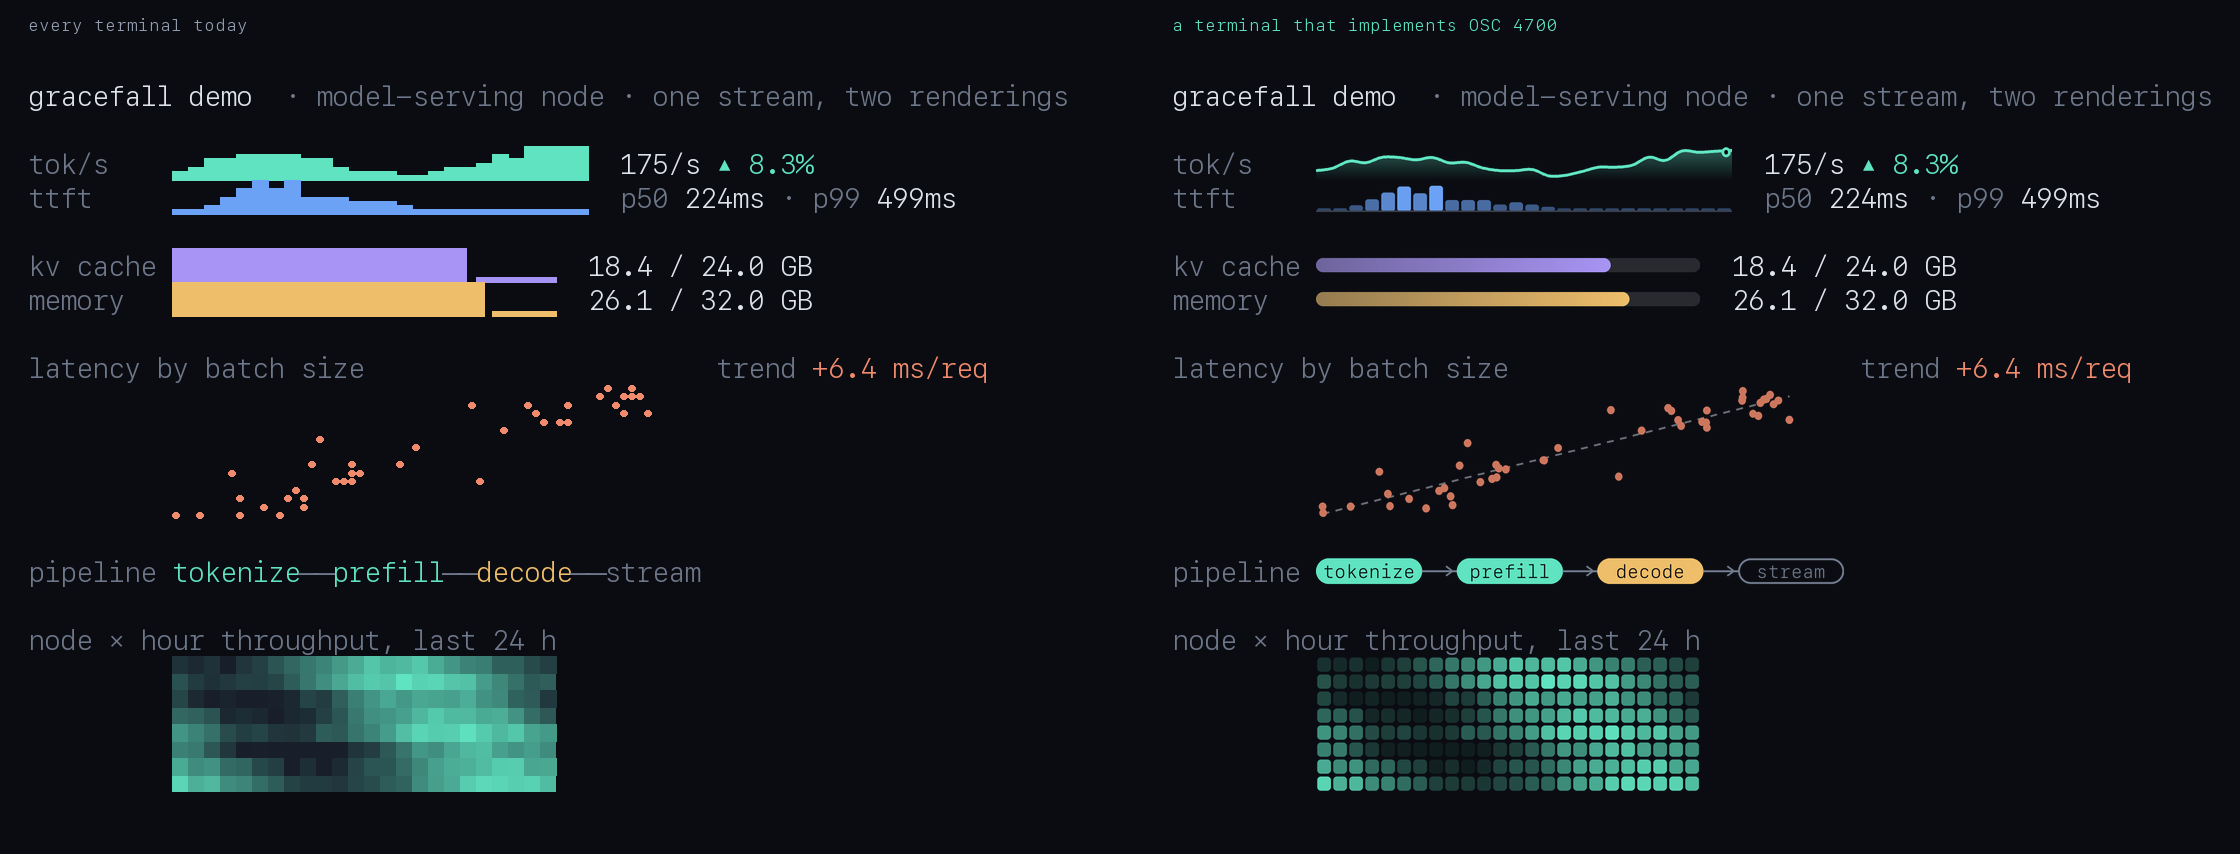
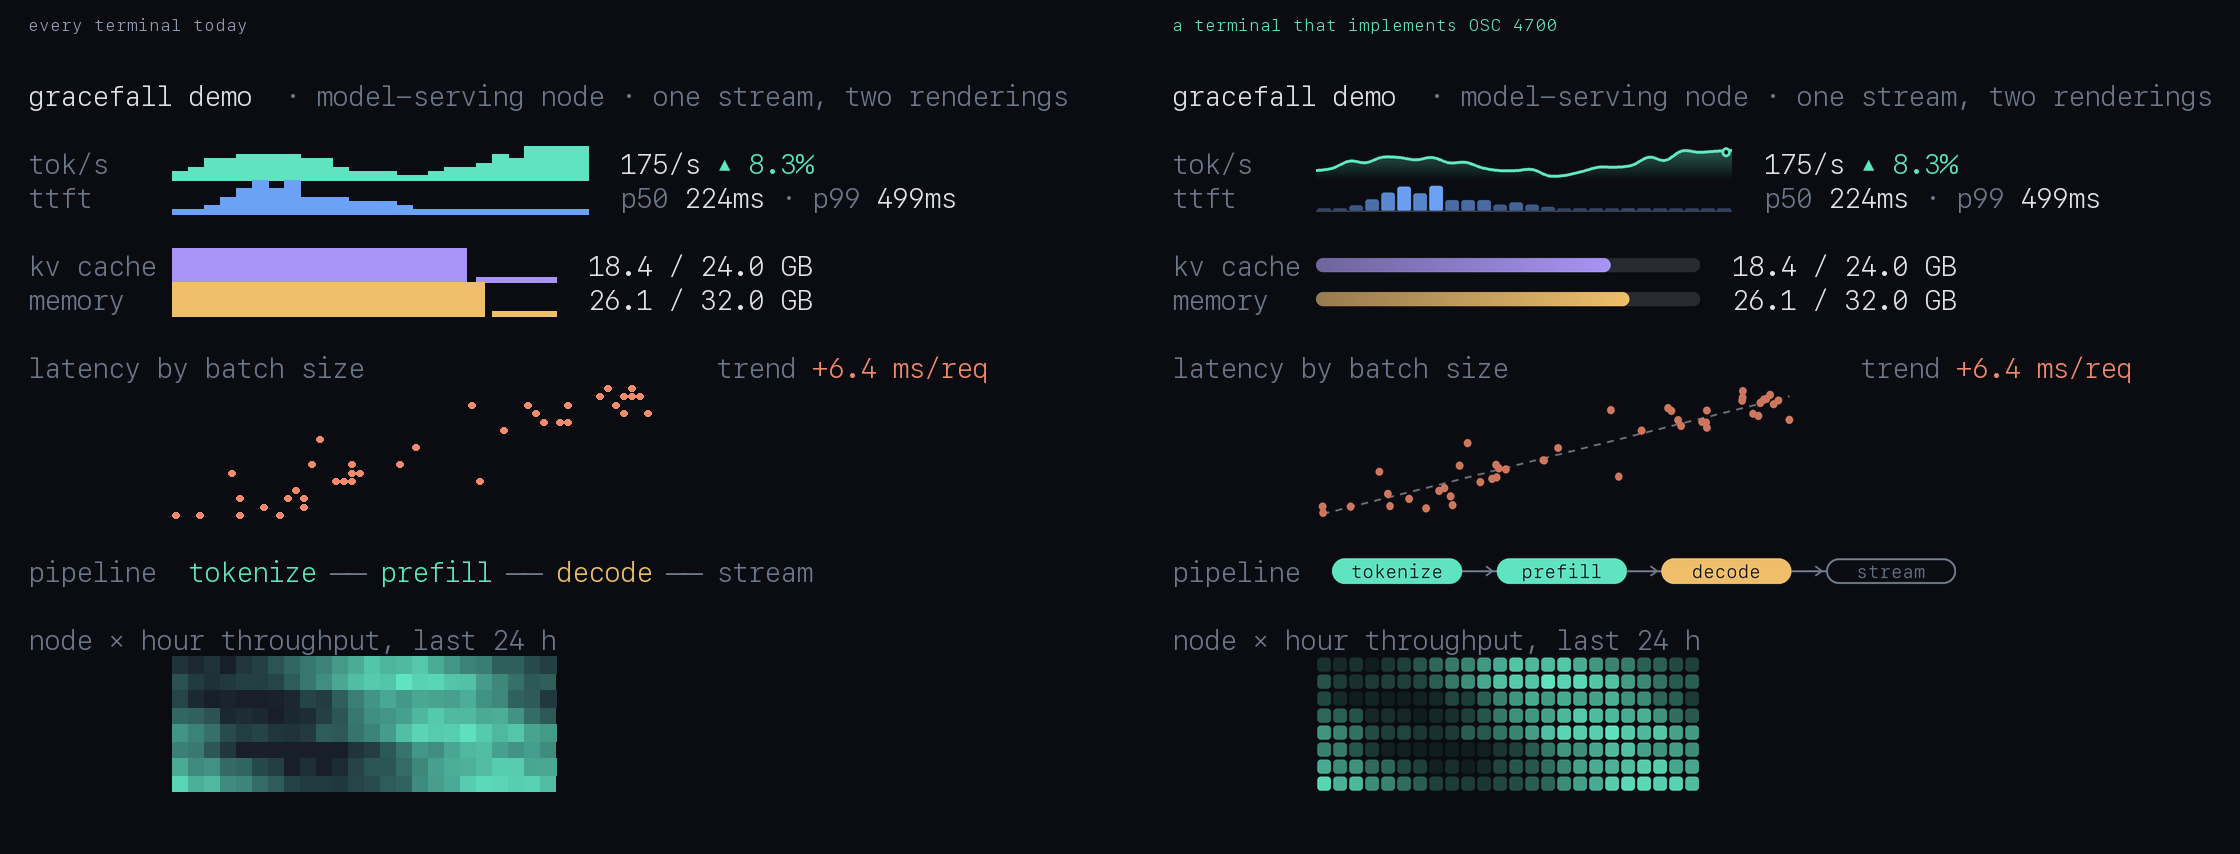
0.4.0: pad flow stage names, and make the layout normative
The flow fallback now puts one space on each side of every stage name,
and SPEC.md documents the layout (padded names, two-cell joins) as
normative rather than styling.

The padding exists for receivers. A terminal that draws stage markers
composites them behind the fallback text, so it cannot resize the names
and it cannot widen a marker past its stage's cells without eating the
join characters drawn on top of it. The only way a marker gets room
around its name is for the name's cells to include that room, which
makes the layout part of the wire format: a receiver derives each name's
cells from it, and an emitter that changed it would move the markers off
the words.

The golden moved only in the flow span, and the visual diff against the
previous renderer is zero pixels, which is expected: this changes what
the emitter writes, not how the renderer draws it.

Changed region(s): [[0.5938, 0.6393, 0.875, 0.7002], [0.0938, 0.6393, 0.3125, 0.7002]]

diff --git a/src/gracefall/__init__.py b/src/gracefall/__init__.py
@@ -22,7 +22,7 @@ Library API:
 
 import re
 
-__version__ = "0.3.5"
+__version__ = "0.4.0"
 __all__ = ["OSC_NUM", "span", "spark", "meter", "flow", "dist", "scatter",
            "heat", "strip_spans", "ROLE_RGB", "SGR"]
 
@@ -99,8 +99,12 @@ def flow(stages, statuses):
         if s not in scol:
             raise ValueError(f"unknown status {s!r}, use one of {list(scol)}")
     parts = [f"{n}:{s}" for n, s in zip(stages, statuses)]
+    # One space each side of every name. The padding is part of the wire
+    # format, not styling: a receiver that draws stage markers finds each
+    # name's cells from this layout, and the extra cells are what give its
+    # drawing room around the text it cannot resize.
     fb = f"{SGR['dim']}\u2500\u2500{R}".join(
-        f"{SGR[scol[s]]}{n}{R}" for n, s in zip(stages, statuses))
+        f"{SGR[scol[s]]} {n} {R}" for n, s in zip(stages, statuses))
     return span("t=flow;n=" + ",".join(parts), fb)
 
 

diff --git a/SPEC.md b/SPEC.md
@@ -60,6 +60,12 @@ Emitters MUST keep each envelope under 2048 bytes.
                tb=<intercept> ; c=<role>
     t=heat     d=row:row:... (rows are comma-separated) ; lo ; hi ; c=<role>
 
+flow's fallback layout is normative, not styling: each stage is its name
+padded with one space on each side, and stages are joined with two U+2500
+cells. A receiver that draws stage markers derives each name's cells from
+that layout, so an emitter that changed it would move the markers off the
+words.
+
 Payloads are data, never pixels and never drawing commands. The receiving
 terminal owns rendering, so output adapts to its theme, font size, and DPI.
 

diff --git a/CHANGELOG.md b/CHANGELOG.md
@@ -1,5 +1,16 @@
 # Changelog
 
+## 0.4.0
+
+### Changed
+
+- The flow fallback pads each stage name with one space on each side, and
+  SPEC.md now documents that layout as normative. The padding is what lets
+  a receiver draw a stage marker with room around the name: the text's
+  size belongs to the terminal, and a marker widened past its own cells
+  eats the join characters drawn on top of it. A flow line is four cells
+  wider per stage than 0.3.x emitted.
+
 ## 0.3.5
 
 ### Changed
